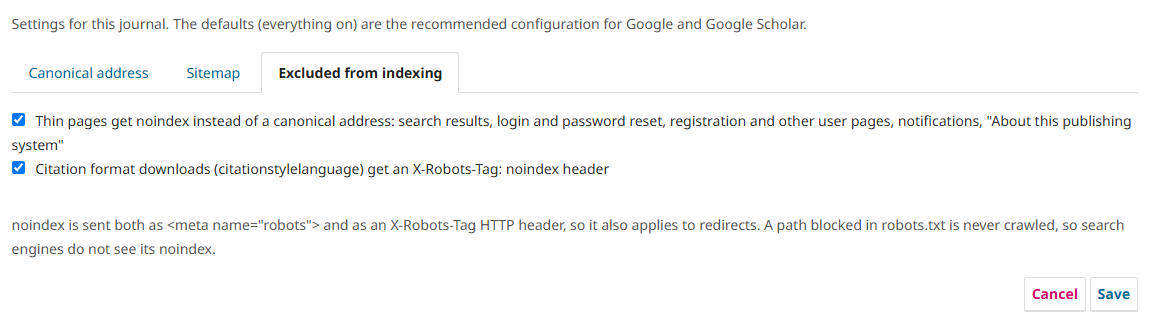
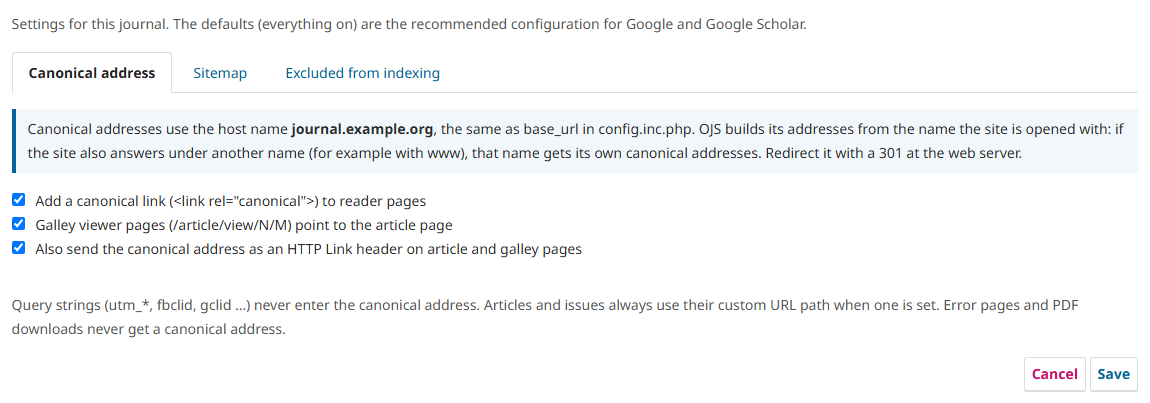
README: show the Canonical address and Sitemap tabs

diff --git a/README_TR.md b/README_TR.md
@@ -31,6 +31,8 @@ Adres aynı kalır: `https://<siteniz>/index.php/<dergi>/sitemap`
 | Duyurular, özel sayfalar (gezinme menüsü sayfaları) | kalır; iki grup da ayarlardan dışarıda bırakılabilir | |
 | Ana sayfa, arşiv, hakkında sayfaları | olduğu gibi kalır | |
 
+![Ayar sayfasının "Sitemap" (Site haritası) sekmesi: harita adresi, önbellek durumu ve harita ayarları](docs/settings-sitemap.png)
+
 - **Tarihler.** OJS `lastmod` yazmaz. Eklenti her makale ve sayıya ekler: yayın tarihi ile son değişiklik tarihinden
   geç olanı; bugünden ileri bir tarih yazılmaz.
 - **Örnek.** 80 yayımlanmış makalesi (çoğunda iki galley) ve 10 sayısı olan bir sınama dergisinde OJS'in haritası
@@ -110,7 +112,7 @@ Eklenti etkin kalır ve ayarları korunur; ayarlar veritabanında aynı eklenti 
 
 ## Ayarlar
 
-![Eklentinin ayar sayfası](docs/settings.png)
+![Ayar sayfasının "Canonical address" (Kanonik adres) sekmesi: kullanılan ana makine adı ve üç kanonik adres ayarı](docs/settings.png)
 
 Eklentiler > Genel Eklentiler > Kanonik Adres > Ayarlar (Dergi Yöneticisi ya da Site Yöneticisi; ayarlar dergi başınadır).
 Her şey varsayılan olarak açıktır; önerilen yapılandırma budur.

diff --git a/README.md b/README.md
@@ -31,6 +31,8 @@ The address stays the same: `https://<your-site>/index.php/<journal>/sitemap`
 | Announcements, custom pages (navigation menu pages) | kept; each group can be left out in the settings | |
 | Home page, archive, about pages | kept as they are | |
 
+![The "Sitemap" tab of the settings page, with the sitemap address, the cache status and the sitemap settings](docs/settings-sitemap.png)
+
 - **Dates.** OJS writes no `lastmod`. The plugin adds one to every article and issue: the later of its publication date
   and its last modification date, never later than today.
 - **Example.** On a test journal with 80 published articles (most with two galleys) and 10 issues, the OJS sitemap listed
@@ -112,7 +114,7 @@ The plugin stays enabled and its settings are kept; they are stored in the datab
 
 ## Settings
 
-![The settings page of the plugin](docs/settings.png)
+![The "Canonical address" tab of the settings page, with the host name in use and the three canonical settings](docs/settings.png)
 
 Plugins > Generic Plugins > Canonical URL > Settings (Journal Manager or Site Administrator; one set of settings per
 journal). Everything is on by default, which is the recommended configuration.
